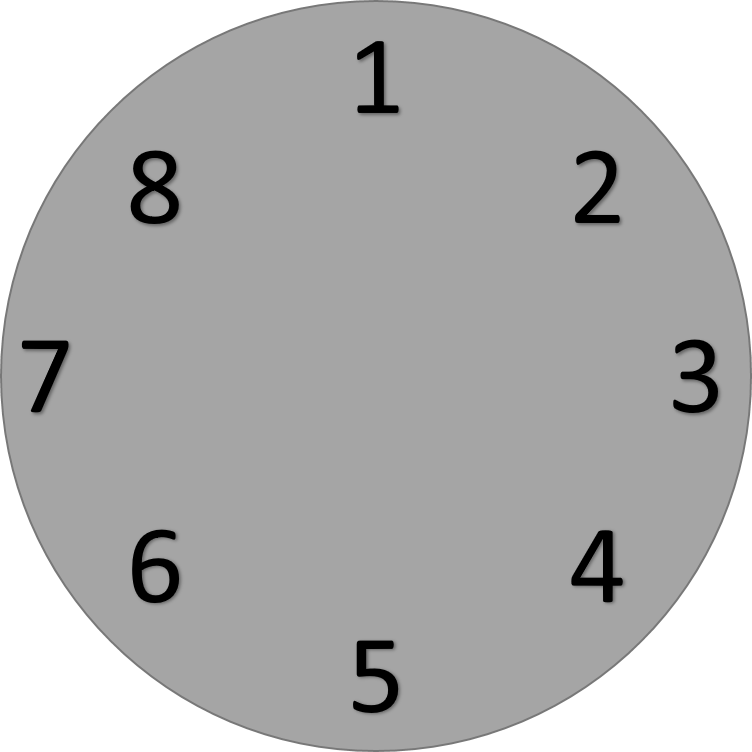
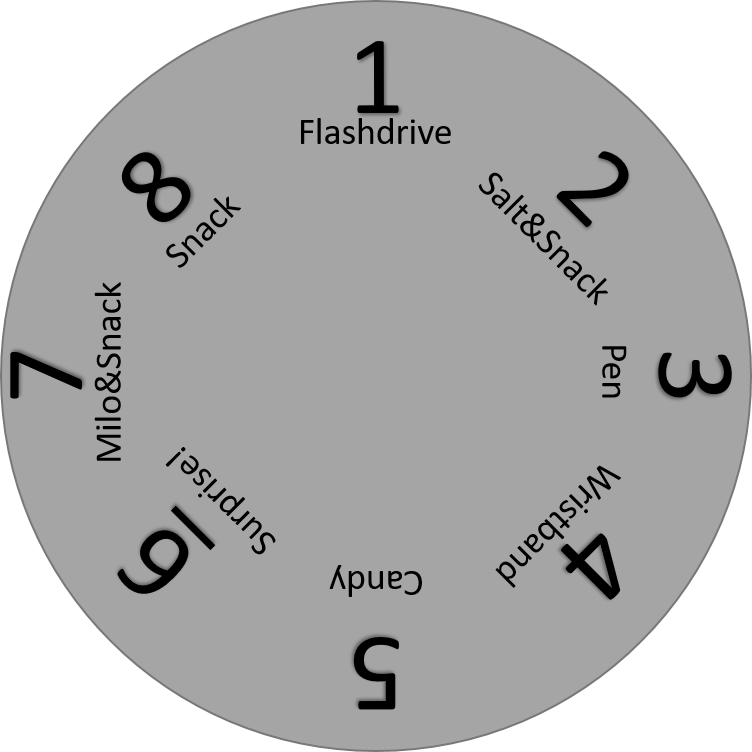
Gacha Program Version 3

diff --git a/obj.h b/obj.h
@@ -28,9 +28,57 @@ class roulet
 		SDL_Texture *img=NULL;
 		SDL_Event e;
 		int x=0,y=0,w=0,h=0,state=0;
-		int degree=0,targetdegree,fps[6],statetargetdegree[6];
+		int degree=0,targetdegree,fps[6],statetargetdegree[6],randomitem,itemleft[MAX_ITEM+1];
+		string itemname[MAX_ITEM+1];
 		Uint32 lasttime=0;
+		string rouletSaveData;
 		
+		void init(string loc)
+		{
+		 memset(&itemleft,0,sizeof(itemleft));
+		 itemname[1]="Flashdrive";
+		 itemname[2]="Salt&Snack";
+		 itemname[3]="Pen";
+		 itemname[4]="Wristband";
+		 itemname[5]="Candy";
+		 itemname[6]="Surprise!";
+		 itemname[7]="Milo&Snack";
+		 itemname[8]="Snack";
+		 rouletSaveData=loc;
+		 loadData();
+		}
+		void loadData()
+		{
+		 FILE *rouletFile=fopen(rouletSaveData.c_str(),"r");
+		 if (rouletFile==NULL)
+		 {
+		  saveData();
+		  return;
+		 }
+		 char read[2048];
+		 
+		 for(int c=1;c<MAX_ITEM+1;c++)
+		 {
+		  if (!fgets(read,2048,rouletFile))
+		  {
+		   printf("[System/Roulet] Load Data Failed\n");
+		   fprintf(logFile,"[System/Roulet] Load Data Failed\n");
+		   break;
+		  }
+		  sscanf(read,"%d",&itemleft[c]);
+		 }
+		 fclose(rouletFile);
+		}
+		void saveData()
+		{
+		 FILE *rouletFile=fopen(rouletSaveData.c_str(),"w");
+		 
+		 for(int c=1;c<MAX_ITEM+1;c++)
+		 {
+		  fprintf(rouletFile,"%d %s\n",itemleft[c],itemname[c].c_str());
+		 }
+		 fclose(rouletFile);
+		}
 		void render()
 		{
 		 renderImage(x,y,w,h,degree,img);
@@ -39,12 +87,45 @@ class roulet
 		{
 		 img=loadImage(loc);
 		}
+		int calculateItemLeft()
+		{
+		 int r=0;
+		 for(int c=1;c<MAX_ITEM+1;c++)r+=itemleft[c];
+		 return r;
+		}
 		void activate()
 		{
 		 if (state==0)
 		 {
-		  targetdegree=(rand()%MAX_ITEM)*(360/MAX_ITEM);
-		  printf("%d\n",(((360-targetdegree)/(360/MAX_ITEM))%8)+1);
+		  if (calculateItemLeft()==0)
+		  {
+		   printf("[System/Roulet] Waring No Item Left\n");
+		   fprintf(logFile,"[System/Roulet] Waring No Item Left\n");
+		   return;
+		  }
+		  randomitem=(rand()%calculateItemLeft())+1;
+		  for(int c=1;c<MAX_ITEM+1;c++)
+		  {
+		   randomitem-=itemleft[c];
+		   if (randomitem<=0)
+		   {
+		   	randomitem=c;
+		   	itemleft[c]--;
+		   	saveData();
+		   	break;
+		   }
+		  }
+		  targetdegree=(360-((randomitem-1)*(360/MAX_ITEM)))%360;
+		  printf("[Gacha] Get Item ID %d [%s]\n",randomitem,itemname[randomitem].c_str());
+		  fprintf(logFile,"[Gacha] Get Item ID %d [%s]\n",randomitem,itemname[randomitem].c_str());
+		  printf("\nItem Left\n");
+		  fprintf(logFile,"\nItem Left\n");
+		  for(int c=1;c<MAX_ITEM+1;c++)
+		  {
+		   printf("Item ID %d [%s] Left %d\n",c,itemname[c].c_str(),itemleft[c]);
+		  }
+		  printf("\n");
+		  fprintf(logFile,"\n");
 		 
 		  //BEGIN set fps and degree
 		  fps[0]=0;
@@ -73,9 +154,9 @@ class roulet
 		 	 0	 stop
 		 	 1	 move fps  1 ,x degree
 		 	 2	 move fps  1 ,810 degree
-		 	 3	 move fps  5,450 degree
+		 	 3	 move fps  5 ,450 degree
 		 	 4	 move fps 10 ,270 degree
-		  	 5	 move fps 100 ,180 degree
+		  	 5	 move fps 10 ,90 degree
 		 END*/
 	 	 if (SDL_GetTicks()-lasttime>=fps[state])
 	 	 {

diff --git a/system.h b/system.h
@@ -8,12 +8,15 @@ SDL_Window *window=NULL;
 SDL_Surface *screen=NULL;
 SDL_Renderer *render=NULL;
 SDL_Event e;
+FILE *logFile;
 
 bool init()
 {
+	logFile=fopen("log.txt","a+");
 	if (SDL_Init(SDL_INIT_VIDEO)<0)
 	{
 	 printf("[System/SDL] Initialize Error %s\n",SDL_GetError());
+	 fprintf(logFile,"[System/SDL] Initialize Error %s\n",SDL_GetError());
 	 return false;
 	}
 	if (!SDL_SetHint(SDL_HINT_RENDER_SCALE_QUALITY,"1"))printf("[System/SDL] Warning Linear texture filtering not eanbled\n");
@@ -23,12 +26,14 @@ bool init()
 	if (window==NULL)
 	{
 	 printf("[System/SDL] CreateWindow(); Error %s\n",SDL_GetError());
+	 fprintf(logFile,"[System/SDL] CreateWindow(); Error %s\n",SDL_GetError());
 	 return false;
 	}
 	render=SDL_CreateRenderer(window,-1,SDL_RENDERER_ACCELERATED|SDL_RENDERER_PRESENTVSYNC);
 	if (render==NULL)
 	{
 	 printf("[System/SDL] CreateRender(); Error %s\n",SDL_GetError());
+	 fprintf(logFile,"[System/SDL] CreateRender(); Error %s\n",SDL_GetError());
 	 return false;
 	}
 	SDL_SetRenderDrawColor(render,0xFF,0xFF,0xFF,0xFF);
@@ -36,6 +41,7 @@ bool init()
 	if (!(IMG_Init(imgFlags)&imgFlags))
 	{
 	 printf("[System/SDL] SDL_image Initialize Error %s\n",IMG_GetError());
+	 fprintf(logFile,"[System/SDL] SDL_image Initialize Error %s\n",IMG_GetError());
 	 return false;
 	}
 	screen=SDL_GetWindowSurface(window);
@@ -55,6 +61,7 @@ SDL_Texture* loadImage(string loc)
 	if (load==NULL)
 	{
 	 printf("[System/SDL] IMG_Load(); Error %s\n",IMG_GetError());
+	 fprintf(logFile,"[System/SDL] IMG_Load(); Error %s\n",IMG_GetError());
 	 return NULL;
 	}
 	SDL_SetColorKey(load,SDL_TRUE,SDL_MapRGB(load->format,0,0xFF,0xFF));
@@ -62,6 +69,7 @@ SDL_Texture* loadImage(string loc)
 	if (tmp==NULL)
 	{
 	 printf("[System/SDL] SDL_CreateTextureFromSurface(); Error %s\n",IMG_GetError());
+	 fprintf(logFile,"[System/SDL] SDL_CreateTextureFromSurface(); Error %s\n",IMG_GetError());
 	 return NULL;
 	}
 	SDL_FreeSurface(load);
@@ -76,4 +84,9 @@ void renderShow()
 void renderClear()
 {
 	SDL_RenderClear(render);
+}
+
+void close()
+{
+	fclose(logFile);
 }

diff --git a/main.cpp b/main.cpp
@@ -10,6 +10,7 @@ int main(int argc,char* args[])
 	if (init()==0)
 	{
 	 printf("[System] Initialize Error\n");
+	 fprintf(logFile,"[System] Initialize Error\n");
 	 return 0;
 	}
 	
@@ -42,6 +43,7 @@ int main(int argc,char* args[])
 	//BEGIN rouret obj
 	roulet roulet;
 	
+	roulet.init("roulet");
 	roulet.loadImg("resource/roulet.png");
 	roulet.w=800;
 	roulet.h=800;
@@ -54,7 +56,7 @@ int main(int argc,char* args[])
 	 while(SDL_PollEvent(&e)!=0)
 	 {
 	  if (e.type==SDL_QUIT)run=false;
-	  if (e.type==SDL_KEYDOWN)roulet.activate();
+	  if (e.type==SDL_KEYUP)roulet.activate();
 	 }
 	 roulet.event();
 	 renderClear();
@@ -62,4 +64,5 @@ int main(int argc,char* args[])
 	 point.render();
 	 renderShow();
 	}
+	close();
 }
